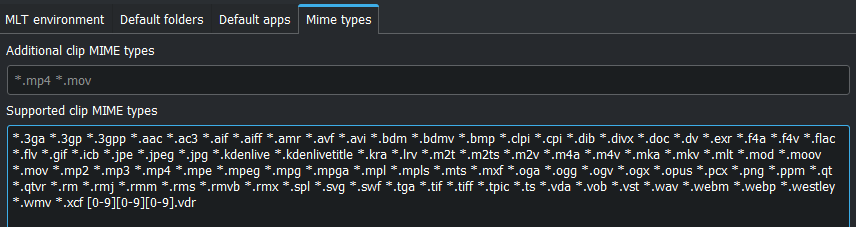
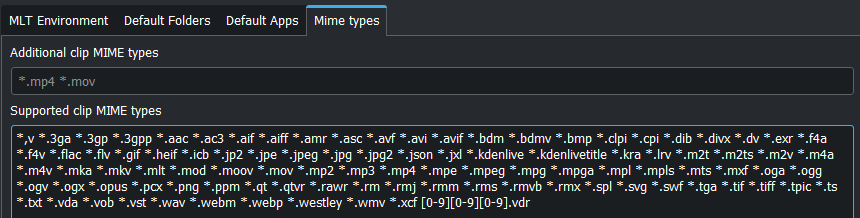
Add animation file type (Glaxnimate)
Update default apps, MIME type, project bin and edit clips

Changed region(s): [[0.0, 0.4679, 1.0, 1.0], [0.0, 0.1927, 1.0, 0.4404], [0.0, 0.0, 1.0, 0.1651]]

diff --git a/importing_and_assets_management/projects_and_files/clips.rst b/importing_and_assets_management/projects_and_files/clips.rst
@@ -1,3 +1,8 @@
+.. meta::
+   :description: Project bin in Kdenlive video editor
+   :keywords: KDE, Kdenlive, add clips, animation, color clip, image, title clip, online resources, editing, timeline, documentation, user manual, video editor, open source, free, learn, easy
+
+
 .. metadata-placeholder
 
    :authors: - Annew (https://userbase.kde.org/User:Annew)
@@ -27,10 +32,10 @@ See also :ref:`clip_menu`.
 .. _add_clip:
 
 
-Clips (Video, Audio and Images)
--------------------------------
+Clips (Video, Audio, Images and Animation)
+------------------------------------------
 
-The |kdenlive-add-clip| button (Add Clip) brings up the **Add Clip** Dialog where you can choose video, audio or still image clips to add to :ref:`project_tree`.
+The |kdenlive-add-clip| button (or :guilabel:`Add Clip or Folder...` or double click into an empty place in the project bin) brings up the **Add Clip** Dialog where you can choose video, audio, animation (*new in version 22.08*) or still image clips to add to :ref:`project_tree`.
 
 .. image:: /images/Add_clip_dialog.png
    :width: 450px
@@ -41,10 +46,11 @@ The button |view-preview| labeled 1 toggles File Preview on and off (applies to 
 
 The slider labeled 2 adjusts the size of the preview icons. 
 
-The :menuselection:`Import image sequence` checkbox labeled 3 enables the import of a series of images that can be used to make a stop motion animation.
+Checkbox :guilabel:`Import image sequence` (labeled 3) enables the import of a series of images that can be used to make a stop motion animation.
 
 .. versionadded:: 21.12
-   The :menuselection:`Ignore subfolder structure` checkbox labeled 4 enables import video footage or audio recording folders while automatically ignoring any sub-folder structures created by some devices, such as the Sony XDCam, Panasonic P2, Canon camcorders or Zoom audio recorders.
+
+Checkbox :guilabel:`Ignore subfolder structure` (labeled 4) enables import video footage or audio recording folders while automatically ignoring any sub-folder structures created by some devices, such as the Sony XDCam, Panasonic P2, Canon camcorders or Zoom audio recorders.
 
 You can add other types of clips by choosing a clip type from the menu brought up from the drop down button next to the |kdenlive-add-clip| button.
 
@@ -58,7 +64,7 @@ You can add other types of clips by choosing a clip type from the menu brought u
 Color clips
 -----------
 
-Color clips are images composed of a single color that can be added to the Project Bin. They can be useful to provide a background on which to place titles.
+:guilabel:`Add Color Clip...`: Color clips are images composed of a single color that can be added to the Project Bin. They can be useful to provide a background on which to place titles.
 
 Add color clips by choosing :menuselection:`Add Color Clip` from the drop down button next to the |kdenlive-add-clip| button.
 
@@ -72,10 +78,7 @@ This brings up the **Color Clip** dialog from which you can choose a color and a
 Clicking :menuselection:`OK` adds the clip to the project bin. The clip can then be dragged to the timeline. The duration of the color clip can be adjusted on the timeline.
 
 
-Title clips
------------
 
-See :ref:`titles`.
 
 
 .. _add_slideshow_clip:
@@ -83,7 +86,7 @@ See :ref:`titles`.
 Image Sequence clips
 --------------------
 
-Image Sequence clips are clips created from a series of still images. The feature can be used to make an animation from a collection of still images or to create a slideshow of still images. To create the former, use a short frame duration; to create the latter, use a long frame duration.
+:guilabel:`Add Image Sequence`: Image Sequence clips are clips created from a series of still images. The feature can be used to make an animation from a collection of still images or to create a slideshow of still images. To create the former, use a short frame duration; to create the latter, use a long frame duration.
 
 To create an image sequence clip, choose :menuselection:`Add Image Sequence` from the :menuselection:`Add Clip` drop down list.
 
@@ -108,12 +111,31 @@ Center crop: automatically fills the output video frame with the images while ma
 
 Animation: adds preset slow smooth pan and zoom effects also known as the Ken Burns Effect. You can choose no animation, pans only, zooms only, or a combination of pans and zooms. Each option also has a low pass filter to reduce the noise in the images that may occur during this operation. Low pass filtering is much slower, so you should preview without it, and then enable it to render.
 
+Title clips
+-----------
 
-Create Folder
--------------
+See :ref:`titles`.
 
-See :ref:`create_folder`.
 
+.. _add_animation:
+
+Create Animation
+----------------
+
+.. versionadded:: 22.08
+
+:guilabel:`Create Animation...`: Creates a new animation. Give a name for your new animation and it opens Glaxnimate and adds the newly created animation to the project bin. You can then edit the animation in Glaxnimate by right-click on the animation and choose :guilabel:`Edit Clip` and whenever you save it, it is automatically updated in Kdenlive.
+
+Kdenlive supports `JSon` (Lottie animations) and `rawr` (Glaxnimate animation) animation.
+
+`JSon` and `rawr` files contains an alpha channel so the imported animations have a background which is not visible.
+
+If Glaxnimate is not installed on your computer following message pops-up:
+
+.. image:: /images/Kdenlive_install_Glaxnimate.png
+   :alt: Kdenlive_install_Glaxnimate
+
+For Glaxnimate installation see :ref:`here <default_apps>`.
 
 Online Resources
 ----------------

diff --git a/user_interface/menu/clip_menu/edit_clip.rst b/user_interface/menu/clip_menu/edit_clip.rst
@@ -1,3 +1,8 @@
+.. meta::
+   :description: Edit clip in Kdenlive video editor
+   :keywords: KDE, Kdenlive, edit clip, animation, color clip, image, editing, timeline, documentation, user manual, video editor, open source, free, learn, easy
+
+
 .. metadata-placeholder
 
    :authors: - Claus Christensen
@@ -7,6 +12,7 @@
              - Jack (https://userbase.kde.org/User:Jack)
              - Roger (https://userbase.kde.org/User:Roger)
              - Carl Schwan <carl@carlschwan.eu>
+             - Eugen Mohr
 
    :license: Creative Commons License SA 4.0
 
@@ -18,10 +24,25 @@ Edit Clip
 
 .. contents::
 
-This option is available from :ref:`clip_menu` for audio and image files. It is greyed out for video clips. It opens the clip in an external editor.
+This option is available from :ref:`clip_menu` or by right-click on the clip in the :ref:`project bin <clip_right-click>` for following clip types:
 
-Selecting :menuselection:`Edit Clip` on audio clips causes the audio editing software specified in :menuselection:`Settings --> Configure Kdenlive... --> Environment page --> Default Apps tab` to open the audio clip ready for editing. `Audacity <https://www.audacityteam.org/>`_ is the app that is configured by default to be the audio editing tool for Kdenlive.
+- audio
 
-Selecting :menuselection:`Edit Clip` on image clips causes the image editing software specified in :menuselection:`Settings --> Configure Kdenlive... --> Environment page --> Default Apps tab` to open the image file ready for editing. `Krita <https://krita.org/>`_ is the app that is configured by default to be the audio editing tool for Kdenlive.
+- image
 
-The option is not available for video clips because **Kdenlive** is the video editor - only audio and image clips are edited by external software.
+- animation (*new in version 22.08*) 
+
+It opens the clip in an external software specified in :ref:`default_apps` (:menuselection:`Settings --> Configure Kdenlive... --> Environment page --> Default Apps tab`) ready for editing. 
+
+If the path is not set a pop-up window appears to define the path to the external software on your computer:
+
+.. image:: /images/Kdenlive_missing_Glaxnimate-path.png
+   :alt: Kdenlive_missing_application-path
+
+Once the path is set the application starts and opens the clip you like. The entered path gets added automatically in :ref:`default_apps`.
+
+More details for installing the external software and how to set the path see :ref:`default_apps`.
+
+.. hint::
+
+   The option is greyed out for video clips because **Kdenlive** is the video editor - only audio, image and animation clips are edited by external software.

diff --git a/user_interface/menu/settings_menu/configure_kdenlive.rst b/user_interface/menu/settings_menu/configure_kdenlive.rst
@@ -195,6 +195,8 @@ Default Folders
 
 This setting controls where **Kdenlive** expects project files to be by default. It also controls what folder **Kdenlive** will use as a temporary file storage location and it controls where files captured from an external source will be saved.
 
+.. _default_apps:
+
 Default Apps
 ~~~~~~~~~~~~
 
@@ -202,9 +204,22 @@ Default Apps
    :width: 500px
    :alt: Kdenlive_Configure_environment_default_apps
 
+This setting controls what external application opens when you choose :ref:`edit_clip` for a clip in the project bin. 
+
+:guilabel:`Image editing`: A free software would be `Krita <https://www.audacityteam.org/>`_.
+
+:guilabel:`Audio editing`: A free software would be `Audacity <https://krita.org/en/>`_.
+
+:guilabel:`Animation editing`: Kdenlive updates automatically files which are saved in Glaxnimate. Glaxnimate can be downloaded from `here <https://glaxnimate.mattbas.org/>`_ (Linux, Windows, Mac).
+
+**Mac user:** :ref:`Instruction <kdenlive_macos>` how to install and run `dmg` files.
+
+**Windows user:** Make sure all the paths points to an `.exe` file. `Glaxnimate.exe` is in folder `C:/YourPath/glaxnimate-x86_64/glaxnimate/bin/glaxnimate.exe`.
 
 
-This setting controls what application opens when you choose :ref:`edit_clip` for a clip in the project bin. Note there is no application for video editing - because **Kdenlive** is a video editor.  Images and audio files are edited by the external applications defined here.
+.. hint::
+
+   There is no application for video editing - because **Kdenlive** is a video editor.
 
 Mime types
 ~~~~~~~~~~
@@ -217,7 +232,9 @@ Specifies the Media Types (formerly known as MIME types) which Kdenlive can work
 
 .. versionadded:: 22.08
 
-   Added file type: `AVIF`, `HEIF` and `JPEG XL`
+Added file type: `AVIF`, `HEIF` and `JPEG XL`
+
+Added animation file type: `JSon` (Lottie animations) and `rawr` (Glaxnimate animation)
 
 .. _configure_colors:
 

diff --git a/importing_and_assets_management/project_tree.rst b/importing_and_assets_management/project_tree.rst
@@ -63,6 +63,9 @@ The Project Bin is a view in Kdenlive which lists all the clips that are associa
 * :ref:`Add Template Title Clip <titles>`
 
 
+* :ref:`Create Animation... <add_animation>` (*new in version 22.08*)
+   
+
 * :ref:`online_resources`
 
 
@@ -153,7 +156,7 @@ You can create various bins from :ref:`folders <create_folder>` you have created
 
 Closing the extra bins either by pressing :kbd:`CTRL + w` or on the bin you want to close click on |application-menu| and choose :guilabel:`Close` .
 
-
+.. _clip_right-click:
 
 Clip - Right-Click Menu
 -----------------------

diff --git a/getting_started/installation.rst b/getting_started/installation.rst
@@ -111,6 +111,8 @@ If you want to use Kdenlive with domain users with using Windows Active Director
 
 Do also make sure no GPO is blocking the access to these folders.
 
+.. _kdenlive_macos:
+
 Kdenlive on macOS
 -----------------
 
